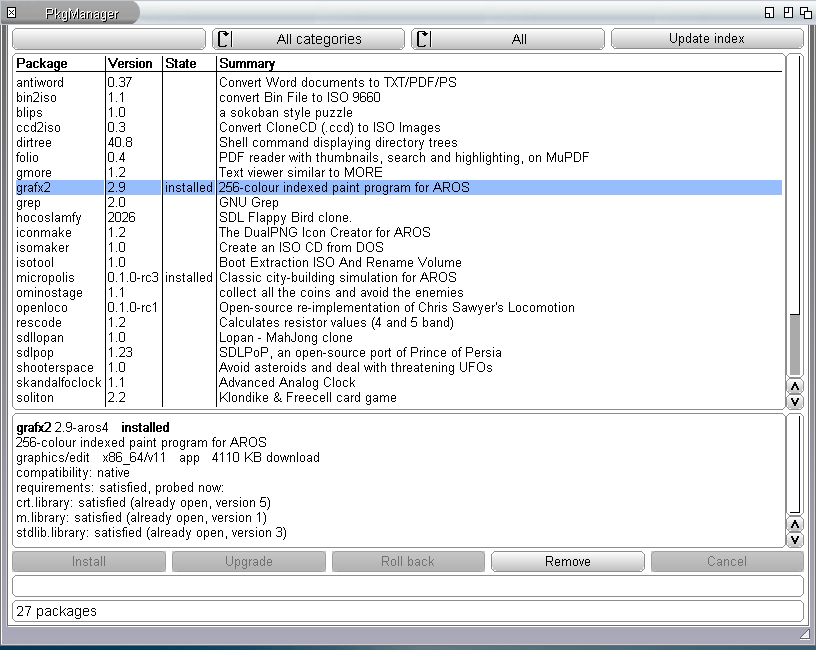
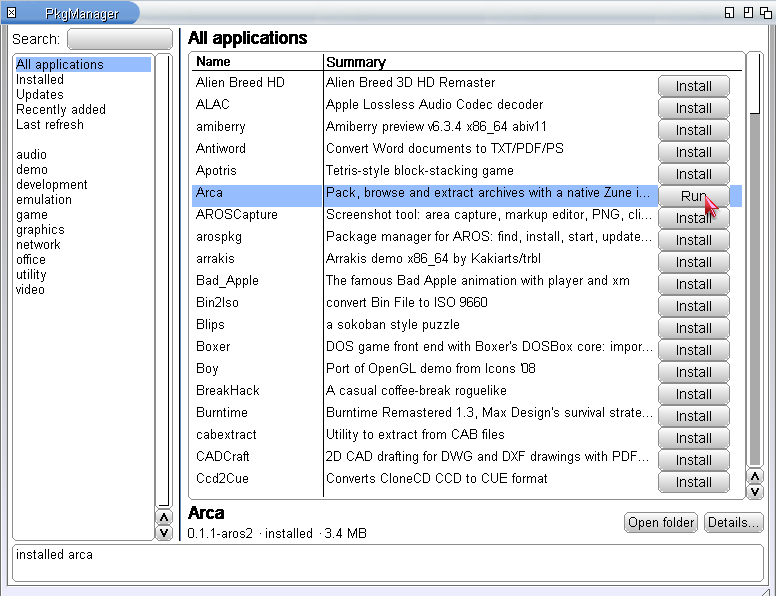
README: the PkgManager window of 0.8.0

diff --git a/README.md b/README.md
@@ -78,7 +78,7 @@ package's page when pictures for it are present. The public catalogue does
 not publish pictures yet; a distribution can already put its own into
 `SYS:Packages/media/` (see [using arospkg](docs/guide/using.md#pictures)).
 
-![PkgManager: the catalogue, with GrafX2 selected](docs/images/pkgmanager.png)
+![PkgManager: the list of applications, with Arca installed](docs/images/pkgmanager.png)
 
 ## Use the Shell
 
